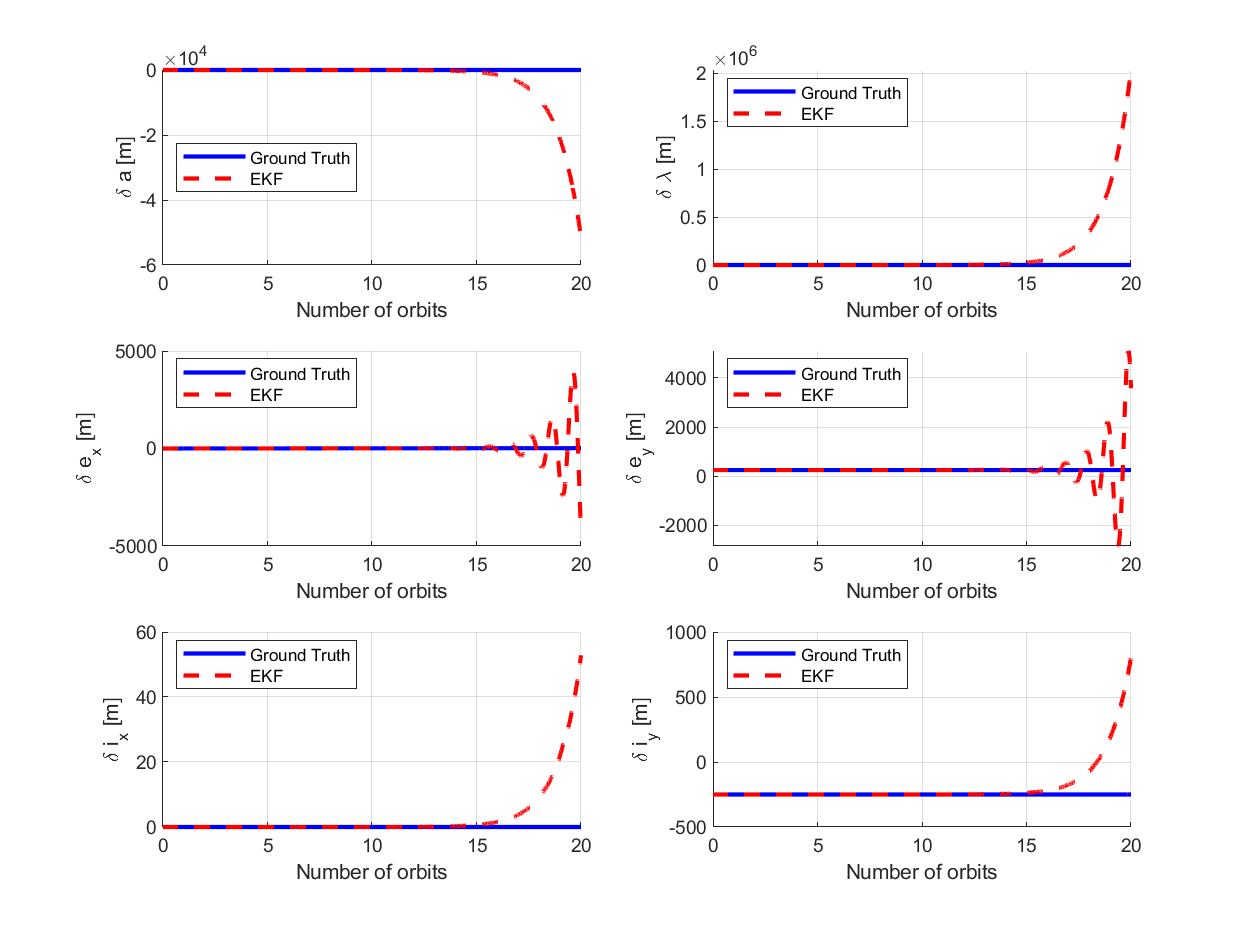
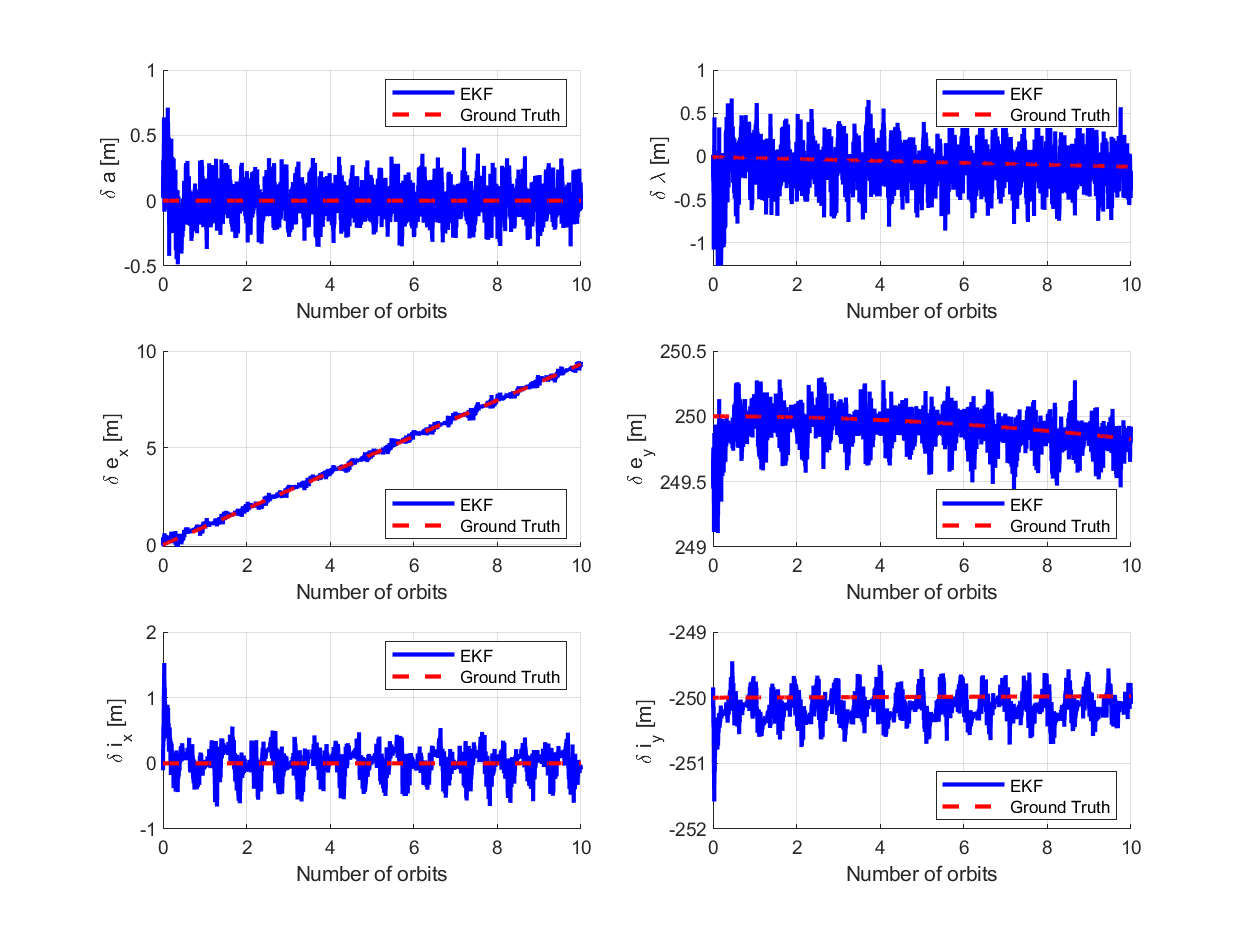
YESSSS

diff --git a/sim/EKF_continuous_no_control.m b/sim/EKF_continuous_no_control.m
@@ -34,7 +34,6 @@ function EKF_continuous_no_control(SV1_OE_init, SV2_ROE_init, SV3_ROE_init, SV2_
     % SV2_state = SV2_state_init;
     % SV3_state = SV3_state_init;
 
-
     % Use ROEs to get initial OEs for SV2 and SV3
     % Then use these OEs to get ECI positions
 
@@ -45,7 +44,6 @@ function EKF_continuous_no_control(SV1_OE_init, SV2_ROE_init, SV3_ROE_init, SV2_
     w_1_init = SV1_OE_init(5);
     M_1_init = SV1_OE_init(6);
     nu_1_init = rad2deg(mean2true(deg2rad(M_1_init),e_1_init));
-
 
     d_a_SV2_init = SV2_ROE_init(1);
     d_lambda_SV2_init = SV2_ROE_init(2);
@@ -128,9 +126,9 @@ function EKF_continuous_no_control(SV1_OE_init, SV2_ROE_init, SV3_ROE_init, SV2_
     estimate_sigma = 0.1*eye(6);
     %estimate_sigma(2,2) = 1e2; 
     estimate_noise = sqrtm(estimate_sigma)*randn(6,1);
-    x_EKF_SV3_all(1,:) = SV3_ROE_init; % + estimate_noise';
+    x_EKF_SV3_all(1,:) = SV3_ROE_init + estimate_noise';
     P_EKF_SV3_all(1,:,:) = 100*estimate_sigma;
-    x_EKF_SV2_all(1,:) = SV2_ROE_init; % + estimate_noise';
+    x_EKF_SV2_all(1,:) = SV2_ROE_init + estimate_noise';
     P_EKF_SV2_all(1,:,:) = 100*estimate_sigma;
 
     x_update_EKF_SV2 = x_EKF_SV2_all(1,:)';
@@ -139,8 +137,8 @@ function EKF_continuous_no_control(SV1_OE_init, SV2_ROE_init, SV3_ROE_init, SV2_
     P_update_EKF_SV3 = squeeze(P_EKF_SV3_all(1,:,:));
 
     % Initial measurements and definition of noise for EKF
-    RTN_sigma = 0.001 * eye(3); % 1 m noise in each direction .000001
-    ECI_sigma = 0.1* eye(3); % 100 m noise in each direction .001 or 1
+    RTN_sigma = 0.0000001 * eye(3); % 1 m noise in each direction .000001
+    ECI_sigma = 0.0001* eye(3); % 100 m noise in each direction .001 or 1
 
     [rho2, ~] = ECI2RTN_rel(SV1_state(1:3)', SV1_state(4:6)', SV2_state(1:3)', SV2_state(4:6)');
     SV2_RTN_pos = rho2';
@@ -166,7 +164,7 @@ function EKF_continuous_no_control(SV1_OE_init, SV2_ROE_init, SV3_ROE_init, SV2_
     y_post_EKF_SV3_all(1,:) = y_actual_EKF_SV3_all(1,:);
 
     % Process and measurement noise covariances
-    Q = 1*estimate_sigma; % similar to P_0 but much smaller
+    Q = 0.1*estimate_sigma; % similar to P_0 but much smaller
     %Q(1,1) = 1e4;
     %Q(2,2) = 1e3;
     %Q(5,5) = 1e1;
@@ -174,7 +172,8 @@ function EKF_continuous_no_control(SV1_OE_init, SV2_ROE_init, SV3_ROE_init, SV2_
 
     % R assumes there is less noise than there actually is.
     % R = 1000000*blkdiag(RTN_sigma, ECI_sigma); % diagonal matrix with elements equal to the varianace of each measurement
-    R = 100*eye(6);
+    %R = 1*eye(6);
+    R = blkdiag(RTN_sigma, ECI_sigma);
 
     for i=2:n_steps
         t = full_times(i-1);
@@ -312,15 +311,18 @@ function EKF_continuous_no_control(SV1_OE_init, SV2_ROE_init, SV3_ROE_init, SV2_
     EKF_error_SV3 = x_EKF_SV3_all - ROE_SV3_true;
     EKF_error_SV2 = x_EKF_SV2_all - ROE_SV2_true;
 
-    plot_ROE_comparison_with_cov(full_times, t_orbit, ROE_SV2_true, x_EKF_SV2_all, P_EKF_SV2_all, 'Ground Truth', 'EKF',  ...
+    % SV2 Plots
+    plot_ROE_comparison_with_cov(full_times, t_orbit,x_EKF_SV2_all, ROE_SV2_true,  P_EKF_SV2_all, 'EKF','Ground Truth',   ...
         '','figures/PS8/ROE_planes_SV2_comparison.png', '', 'figures/PS8/ROE_over_time_SV2_comparison.png');
+    
+    plot_EKF_error(full_times, t_orbit, EKF_error_SV2, P_EKF_SV2_all, 'figures/PS8/EKF_error_SV2.png');
     
     plot_EKF_residuals(full_times, t_orbit, pre_fit_residual_SV2, post_fit_residual_SV2, noise_SV2_all, 'figures/PS8/residuals_SV2.png');
 
-    plot_ROE_comparison_with_cov(full_times, t_orbit, ROE_SV3_true, x_EKF_SV3_all, P_EKF_SV3_all, 'Ground Truth', 'EKF',  ...
+    % SV3 Plots
+    plot_ROE_comparison_with_cov(full_times, t_orbit, x_EKF_SV3_all,ROE_SV3_true,  P_EKF_SV3_all, 'EKF', 'Ground Truth',  ...
         '','figures/PS8/ROE_planes_SV3_comparison.png', '', 'figures/PS8/ROE_over_time_SV3_comparison.png');
     
-    plot_EKF_error(full_times, t_orbit, EKF_error_SV2, P_EKF_SV2_all, 'figures/PS8/EKF_error_SV2.png');
     plot_EKF_error(full_times, t_orbit, EKF_error_SV3, P_EKF_SV3_all, 'figures/PS8/EKF_error_SV3.png');
     
     plot_EKF_residuals(full_times, t_orbit, pre_fit_residual_SV3, post_fit_residual_SV3, noise_SV3_all, 'figures/PS8/residuals_SV3.png');

diff --git a/gnc/ekf_roes.m b/gnc/ekf_roes.m
@@ -25,7 +25,7 @@ function [x_update, P_update, y_pred, y_post] = ekf_roes(x_prior, y_meas, P_prio
     H = measurement_sensitivity_matrix_SV3(SV1_state(1:3)',SV1_state(4:6)',SV1_OE_state);
     K = (P_bar*(H'))/(H*P_bar*H' + R);
 
-    x_update = x_bar-(K*(y_meas-y_pred));
+    x_update = x_bar+(K*(y_meas-y_pred));
     P_update = (eye(6)-K*H)*P_bar*(eye(6)-K*H)' + K*R*K';
     y_post = measurement_model_SV3(x_update,SV1_OE_state);
 end

diff --git a/sim/sim_main.m b/sim/sim_main.m
@@ -29,7 +29,7 @@ load_SV1;
 %%% PROPAGATION TIME DETAILS %%%
 tstart = 0; % Start time (s)
 t_orbit = 2*pi*sqrt(a_SV1_init^3/mu_earth);
-tend = 20*t_orbit; % End time (s)
+tend = 10*t_orbit; % End time (s)
 tint = t_orbit/500.0; % Time step (s)
 
 % Choose which simulations to run

diff --git a/sim/measurement_sensitivity_matrix_SV3.m b/sim/measurement_sensitivity_matrix_SV3.m
@@ -18,6 +18,6 @@ function H = measurement_sensitivity_matrix_SV3(r_chief,v_chief,SV1_oe_qns)
 
     second_entry = Q_eci2rtn' * J;
 
-    H = 0.001*[first_entry;second_entry]; % Convert to kilometers
+    H = [first_entry;second_entry]/1e3; % Convert to kilometers
 end
 

diff --git a/sim/initialize_roe_and_modes.m b/sim/initialize_roe_and_modes.m
@@ -18,7 +18,7 @@ a_chief_meters = a_SV1_init*1e3;
 
 % Add up to 25 orbits
 num_orbits_modes = [0,0,0,0];
-num_orbits_station_keep = [20,0,0,0];
+num_orbits_station_keep = [10,0,0,0];
 
 SV2_ROE = SV2_modes(1, :); % Mode 1
 SV3_ROE = SV3_modes(1, :);
